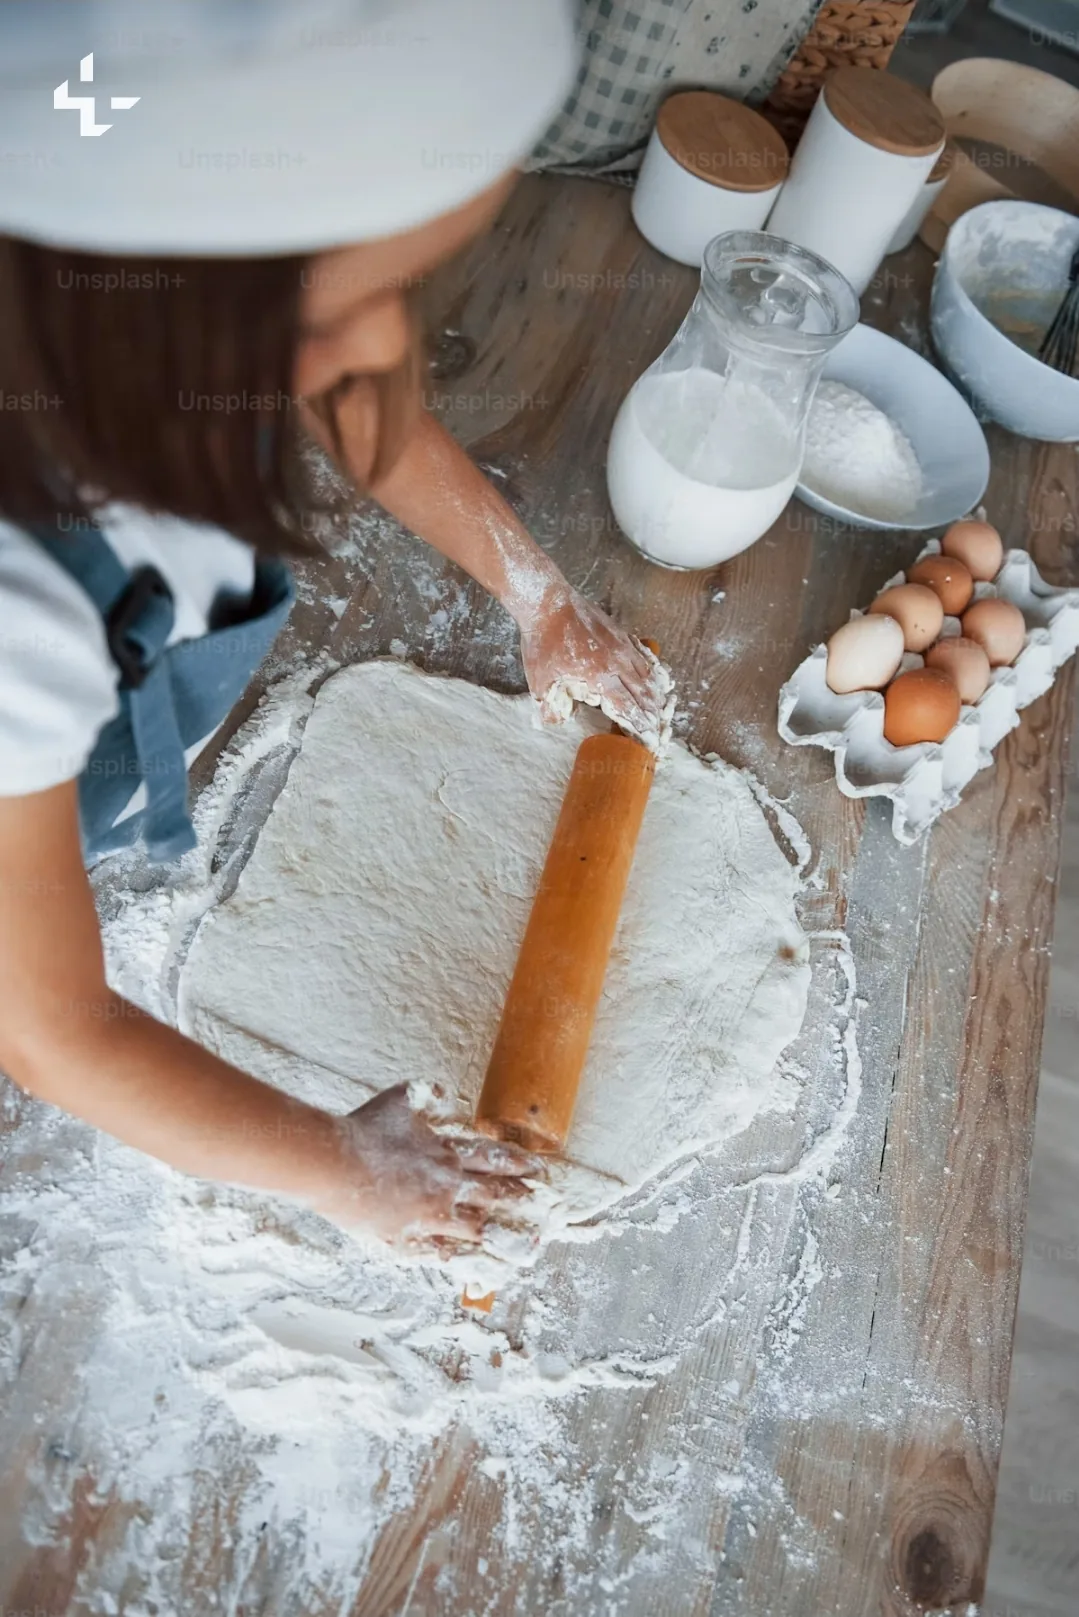
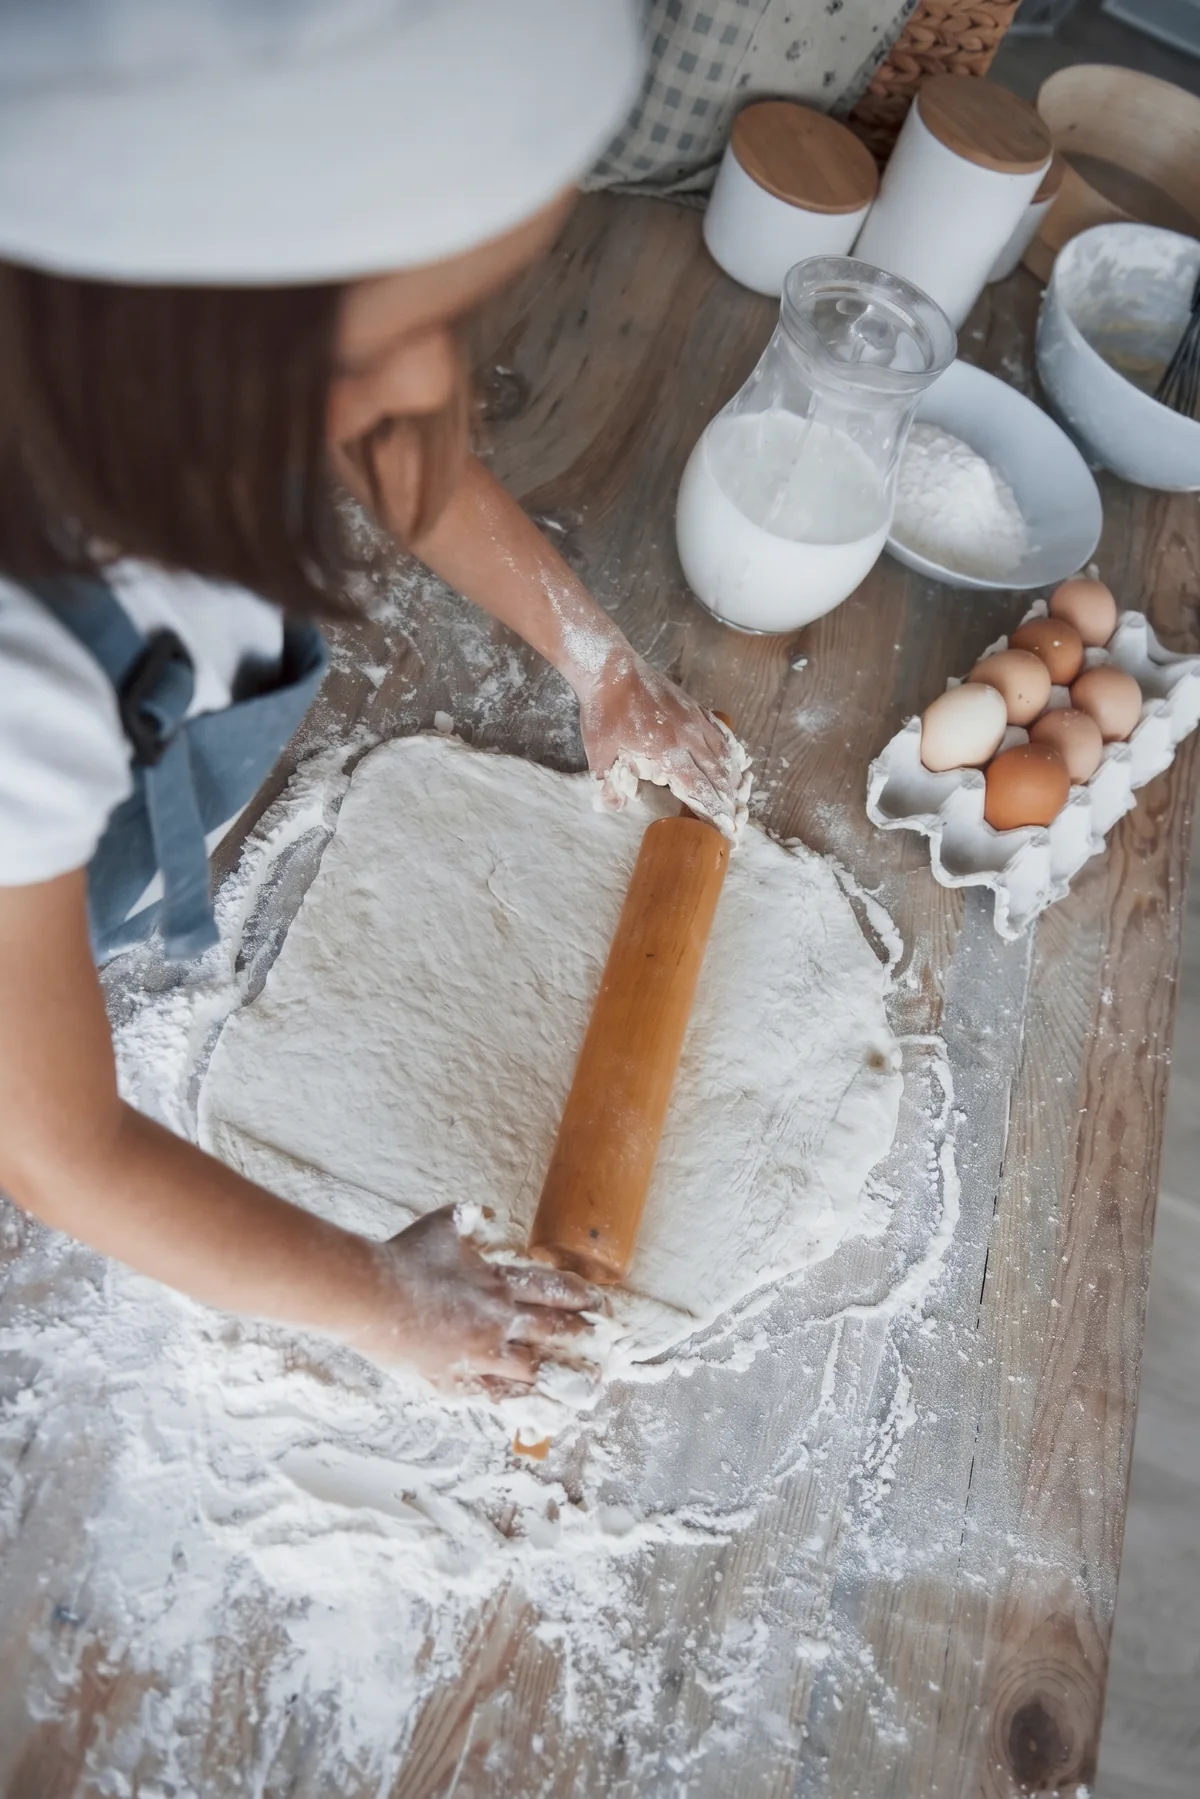
Use licensed cuisine photo

diff --git a/about/index.html b/about/index.html
@@ -228,7 +228,7 @@
       </li>
       <li class="card">
         <div class="card-inner">
-          <figure class="card-front"><img data-photo="baking" sizes="(max-width: 767px) 78vw, 380px" alt="A girl rolling out dough in a kitchen" loading="lazy"></figure>
+          <figure class="card-front"><img data-photo="baking-licensed" sizes="(max-width: 767px) 78vw, 380px" alt="A girl rolling out dough in a kitchen" loading="lazy"></figure>
           <div class="card-back" id="story-8" aria-hidden="true" inert><p>Every dish comes with its own words, stories and manners. On {{cuisine_day}}s, Culture &amp; Cuisine brings those traditions into the kitchen.</p><span class="doodle-note">bon appétit!</span></div>
           <button class="cam" type="button" aria-expanded="false" aria-controls="story-8" aria-label="Read the story behind this card"><svg aria-hidden="true"><use href="#d-camera"/></svg></button>
         </div>

diff --git a/vite.config.js b/vite.config.js
@@ -21,7 +21,7 @@ const PHOTOS = {
   'guitar-detail': [541, 342],
   'hatch-blocks': [1200, 800],
   'studio-making': [508, 339],
-  baking: [1079, 1617], 'business-fair': [1000, 721], capitol: [750, 1000], cooking: [795, 900],
+  'baking-licensed': [1200, 1799], 'business-fair': [1000, 721], capitol: [750, 1000], cooking: [795, 900],
   cuisine: [1200, 861], flight: [1100, 802], founder: [700, 933],
   garden: [1000, 737], golf: [960, 540], guitar: [541, 900], hens: [1000, 726],
   horse: [1000, 716], mentoring: [575, 1000], podcast: [800, 1200],
